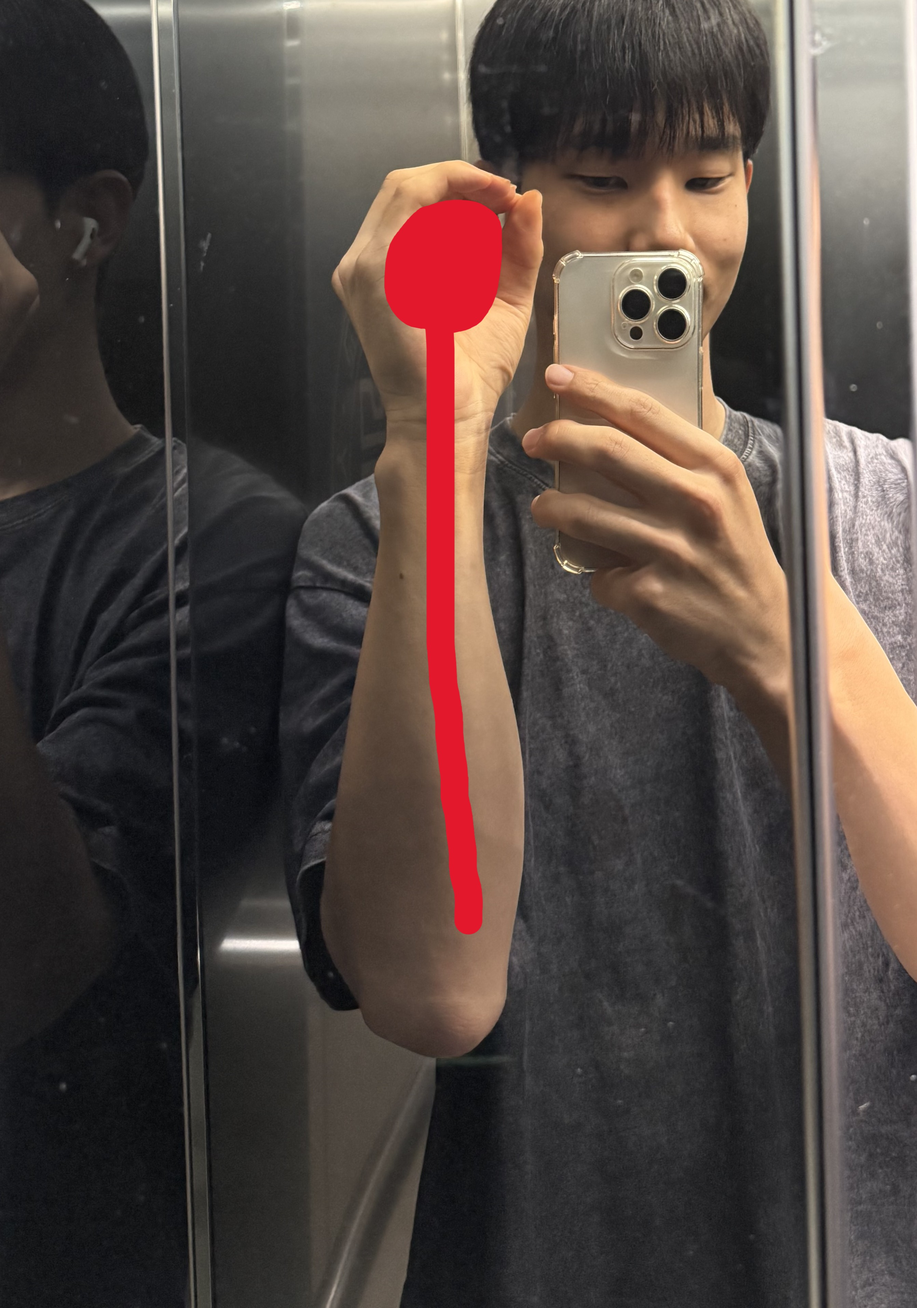
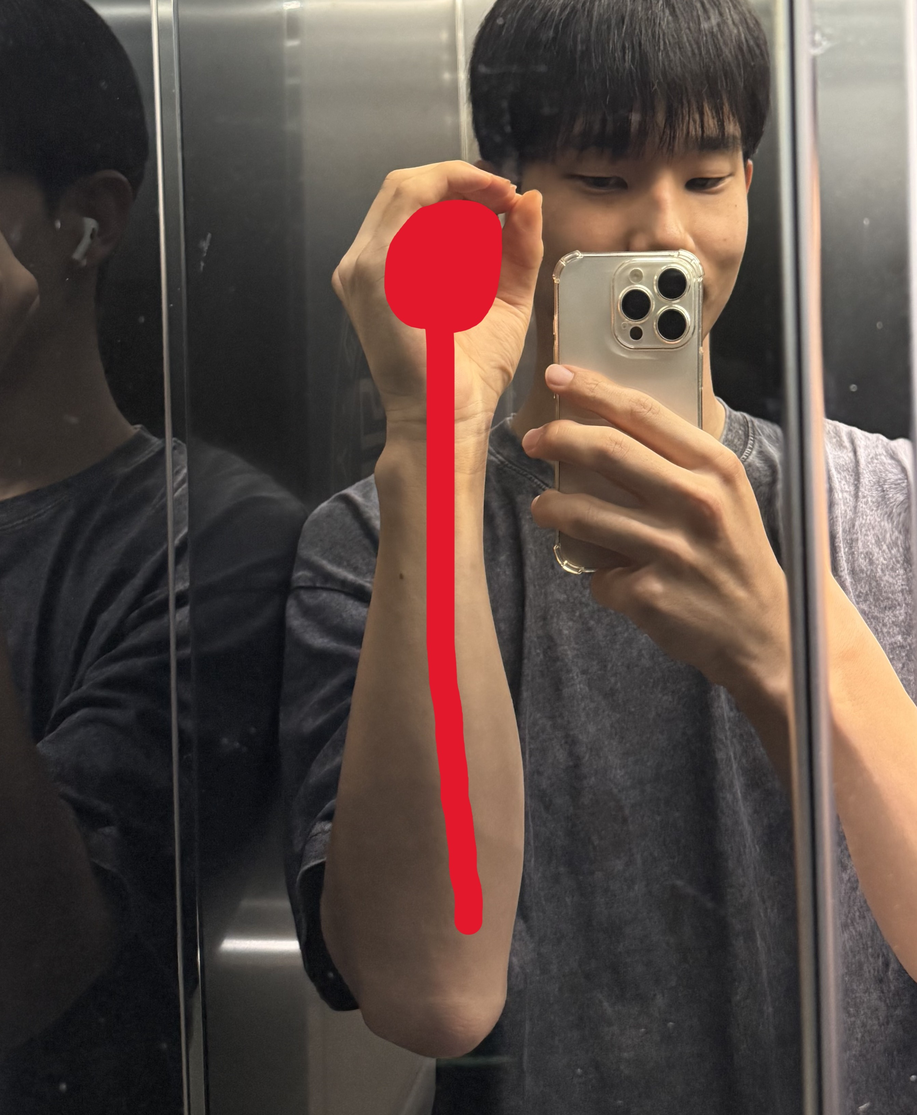
Update stage 6 second answer image

diff --git a/index.html b/index.html
@@ -2189,7 +2189,7 @@
           hint2: "첫 번째와 세 번째 사진은 손가락만,\n두 번째와 네 번째 사진은 손과 팔을 함께 봐주세요!",
           answerImages: [
             "./assets/images/stage6_answer_1.jpg?v=1",
-            "./assets/images/stage6_answer_2.jpg?v=1",
+            "./assets/images/stage6_answer_2.jpg?v=2",
             "./assets/images/stage6_answer_3.jpg?v=1",
             "./assets/images/stage6_answer_4.jpg?v=1",
           ],
